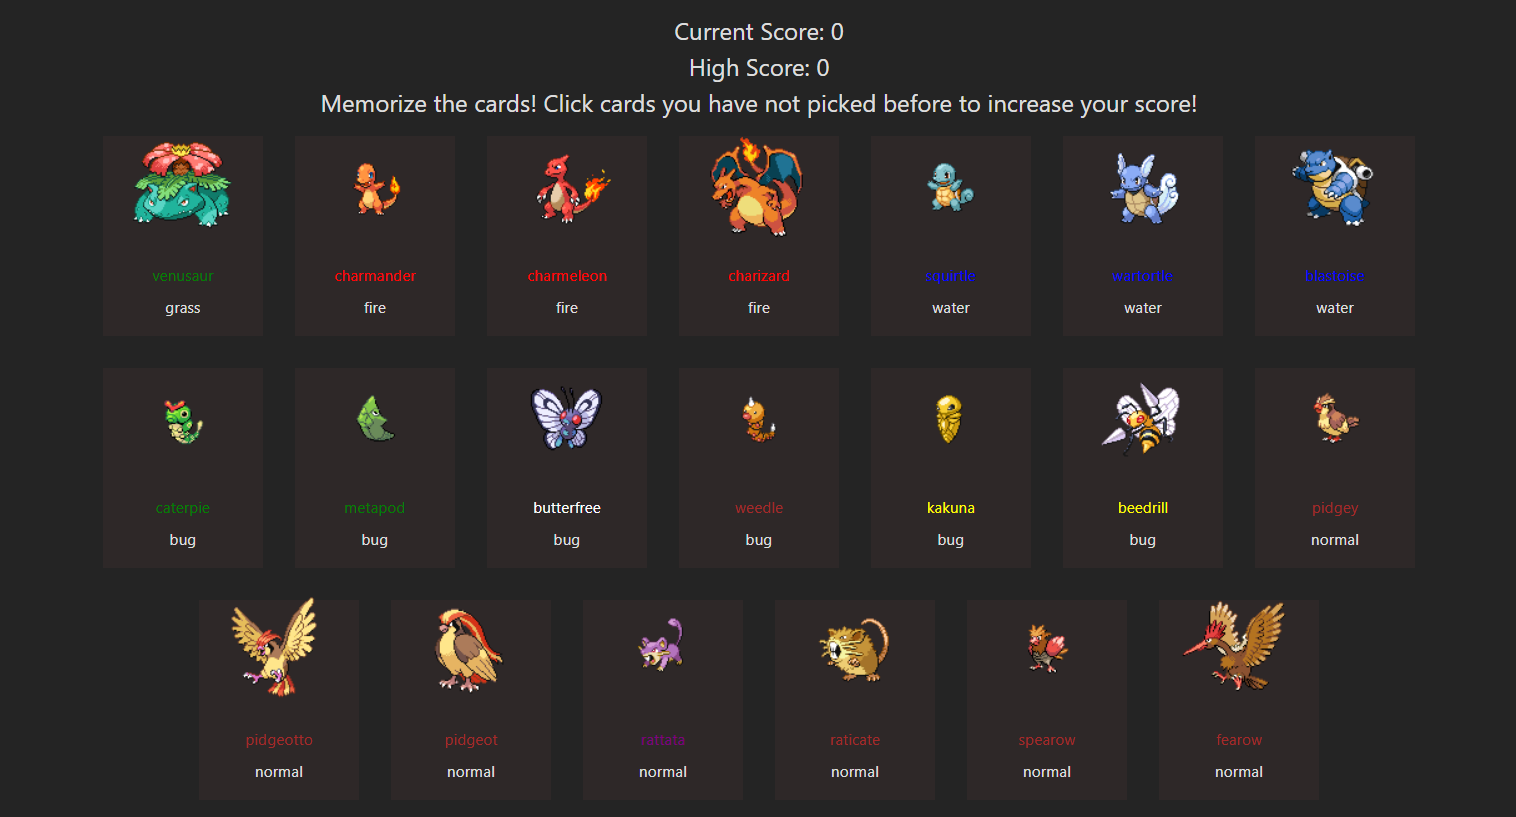
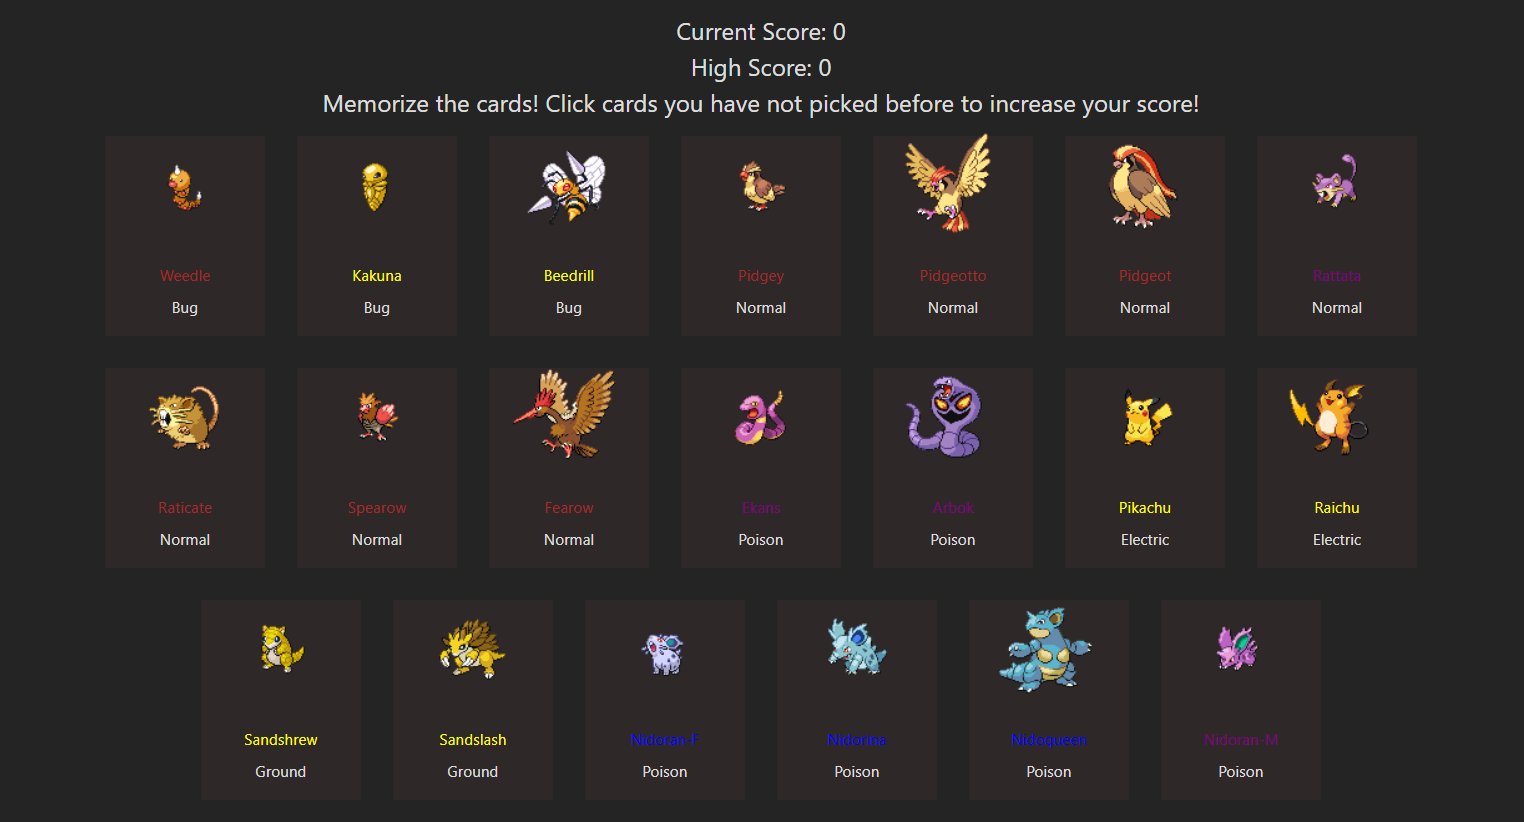
add capitalized pokemon names

diff --git a/src/styles/style.css b/src/styles/style.css
@@ -50,6 +50,8 @@
     font-size: larger;
     padding: 0px;
     height: 2px;
+        text-transform: capitalize;
+
 }
 
 /* On mouse-over, add a deeper shadow */
